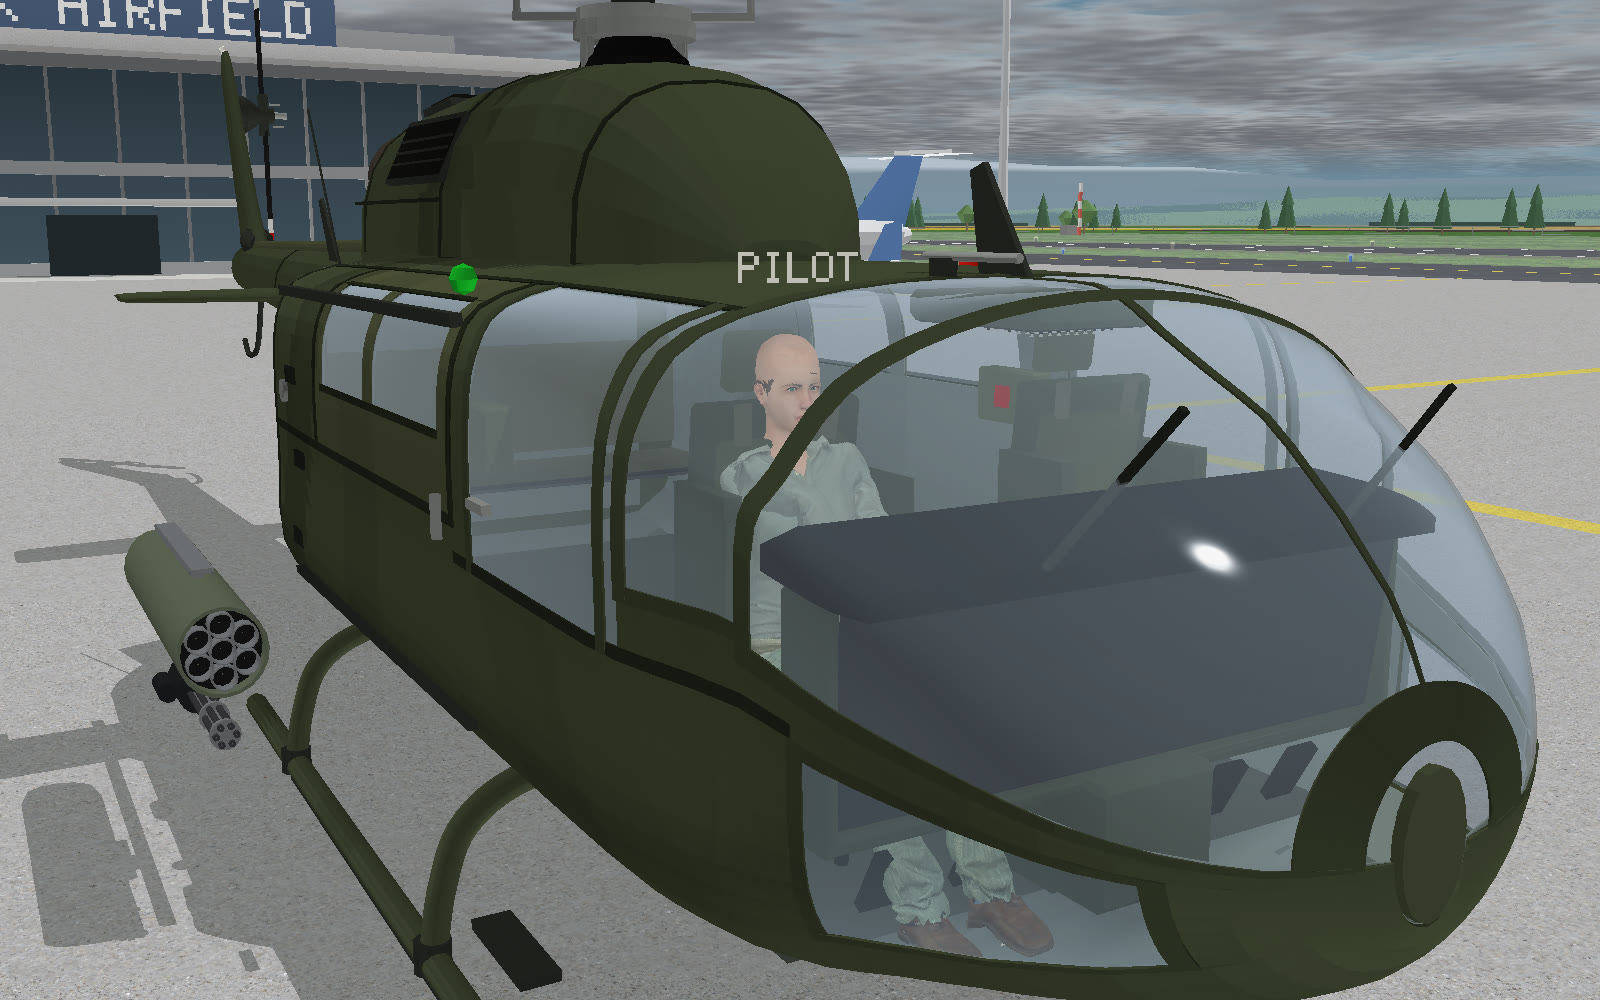
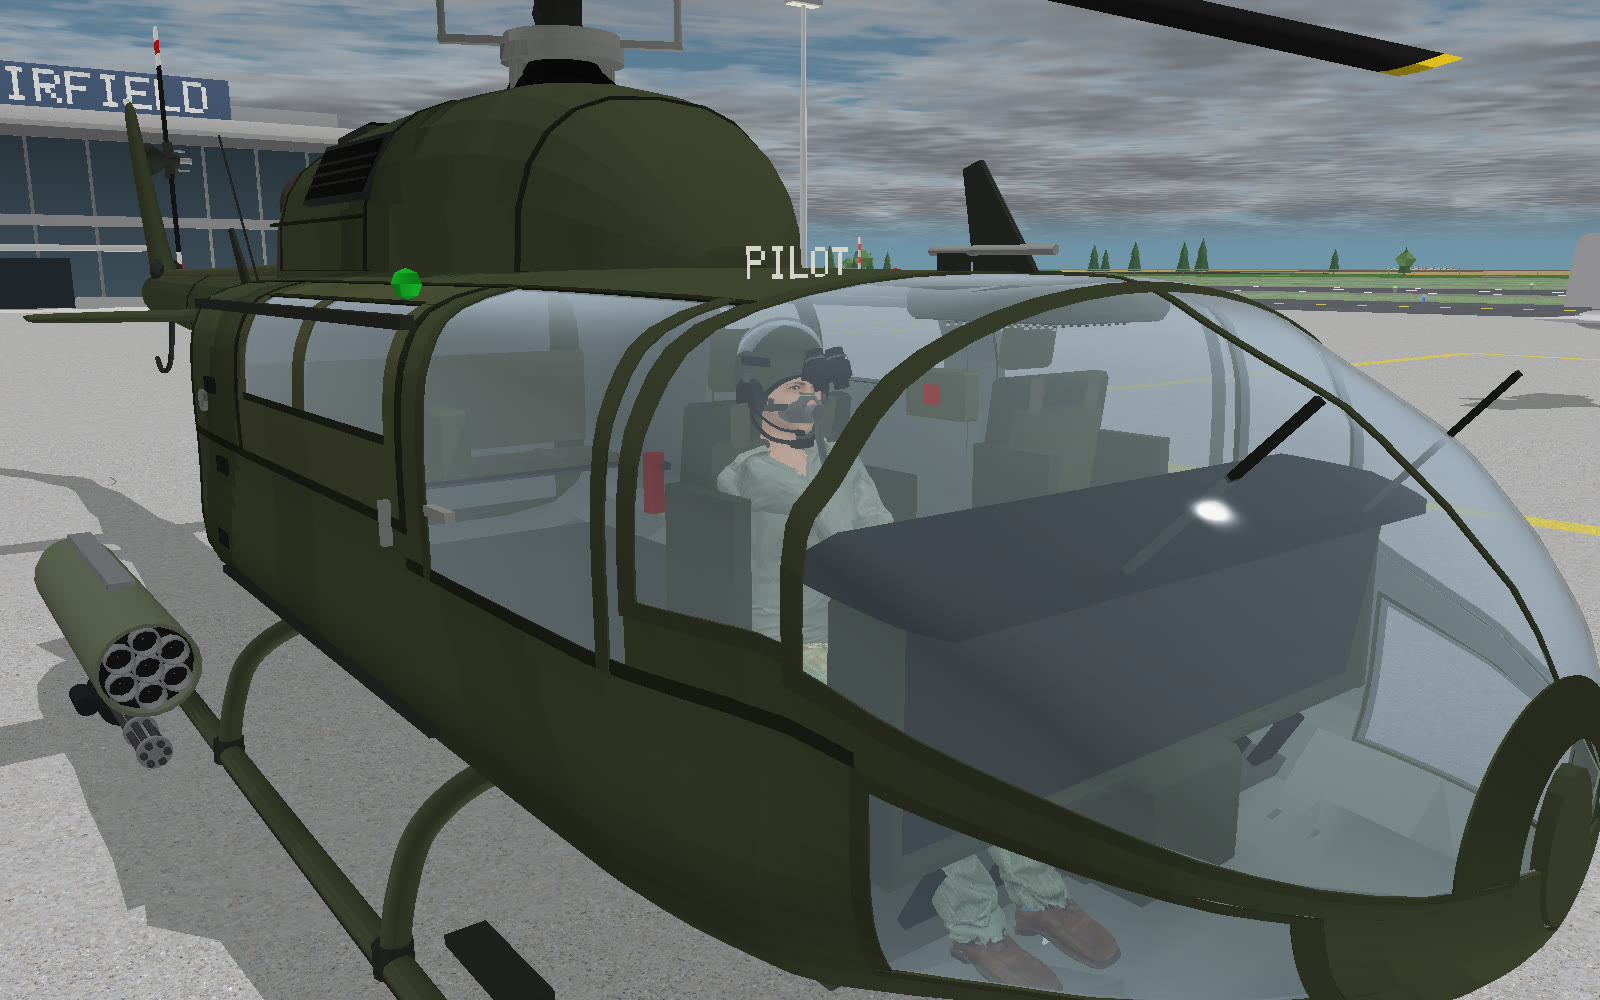
docs: show seated pilots in flight gear in the preview gallery

diff --git a/README.md b/README.md
@@ -68,10 +68,12 @@ All images below are unedited offline renders from the project's **Vulkan GPU re
 
 | | |
 | --- | --- |
-| ![Fighter cockpit](media/images/vehicle-fighter-cockpit.jpg) | ![Helicopter with pilot](media/images/vehicle-heli-pilot.jpg) |
-| Delta-canard fighter: seated pilot, hands on stick and throttle | Utility helicopter with its pilot at the airfield |
-| ![Fighter from the left](media/images/vehicle-fighter-seat.jpg) | ![Cessna panel](media/images/vehicle-cessna-panel.jpg) |
-| Fighter cockpit from the left sill | Cessna-class plane: instrument panel with two displays |
+| ![Fighter cockpit](media/images/vehicle-fighter-cockpit.jpg) | ![Fighter from the front](media/images/vehicle-fighter-seat.jpg) |
+| Delta-canard fighter: pilot in flight suit, helmet and oxygen mask, hands on stick and throttle | Fighter cockpit with the canopy open |
+| ![Helicopter cockpit](media/images/vehicle-heli-cockpit.jpg) | ![Helicopter with pilot](media/images/vehicle-heli-pilot.jpg) |
+| Helicopter pilot with modular helmet, night-vision goggles and mask on cyclic and collective | Utility helicopter with its pilot at the airfield |
+| ![Fighter on the apron](media/images/vehicle-fighter-apron.jpg) | ![Cessna panel](media/images/vehicle-cessna-panel.jpg) |
+| Fighter on the apron with its pilot | Cessna-class plane: instrument panel with two displays |
 | ![Car on the circuit](media/images/vehicle-car-track.jpg) | ![Airfield overview](media/images/airfield-overview.jpg) |
 | Drivable hatchback at the circuit's finish line | Airfield with runway, apron and hangars |
 
